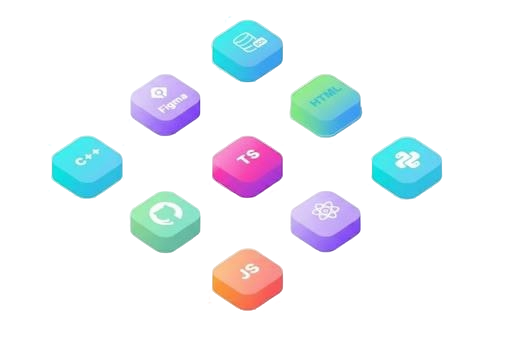
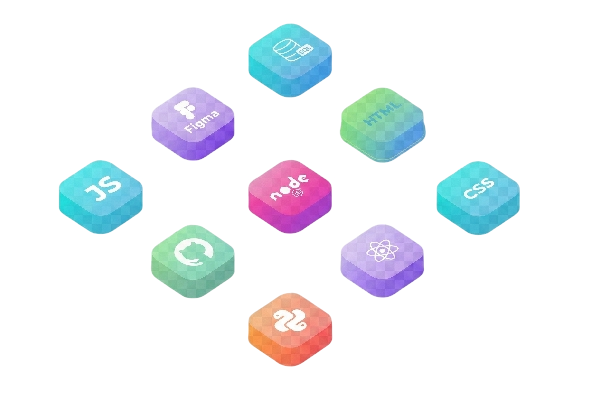
Add images

diff --git a/src/components/services/Services.jsx b/src/components/services/Services.jsx
@@ -1,7 +1,7 @@
 import React from "react";
 import { motion } from "framer-motion";
 import "./Services.css";
-import Service from "../../assets/service.png";
+import Service from "../../assets/rr.png";
 const Services = () => {
   return (
     <section className="services-section" id="services">
